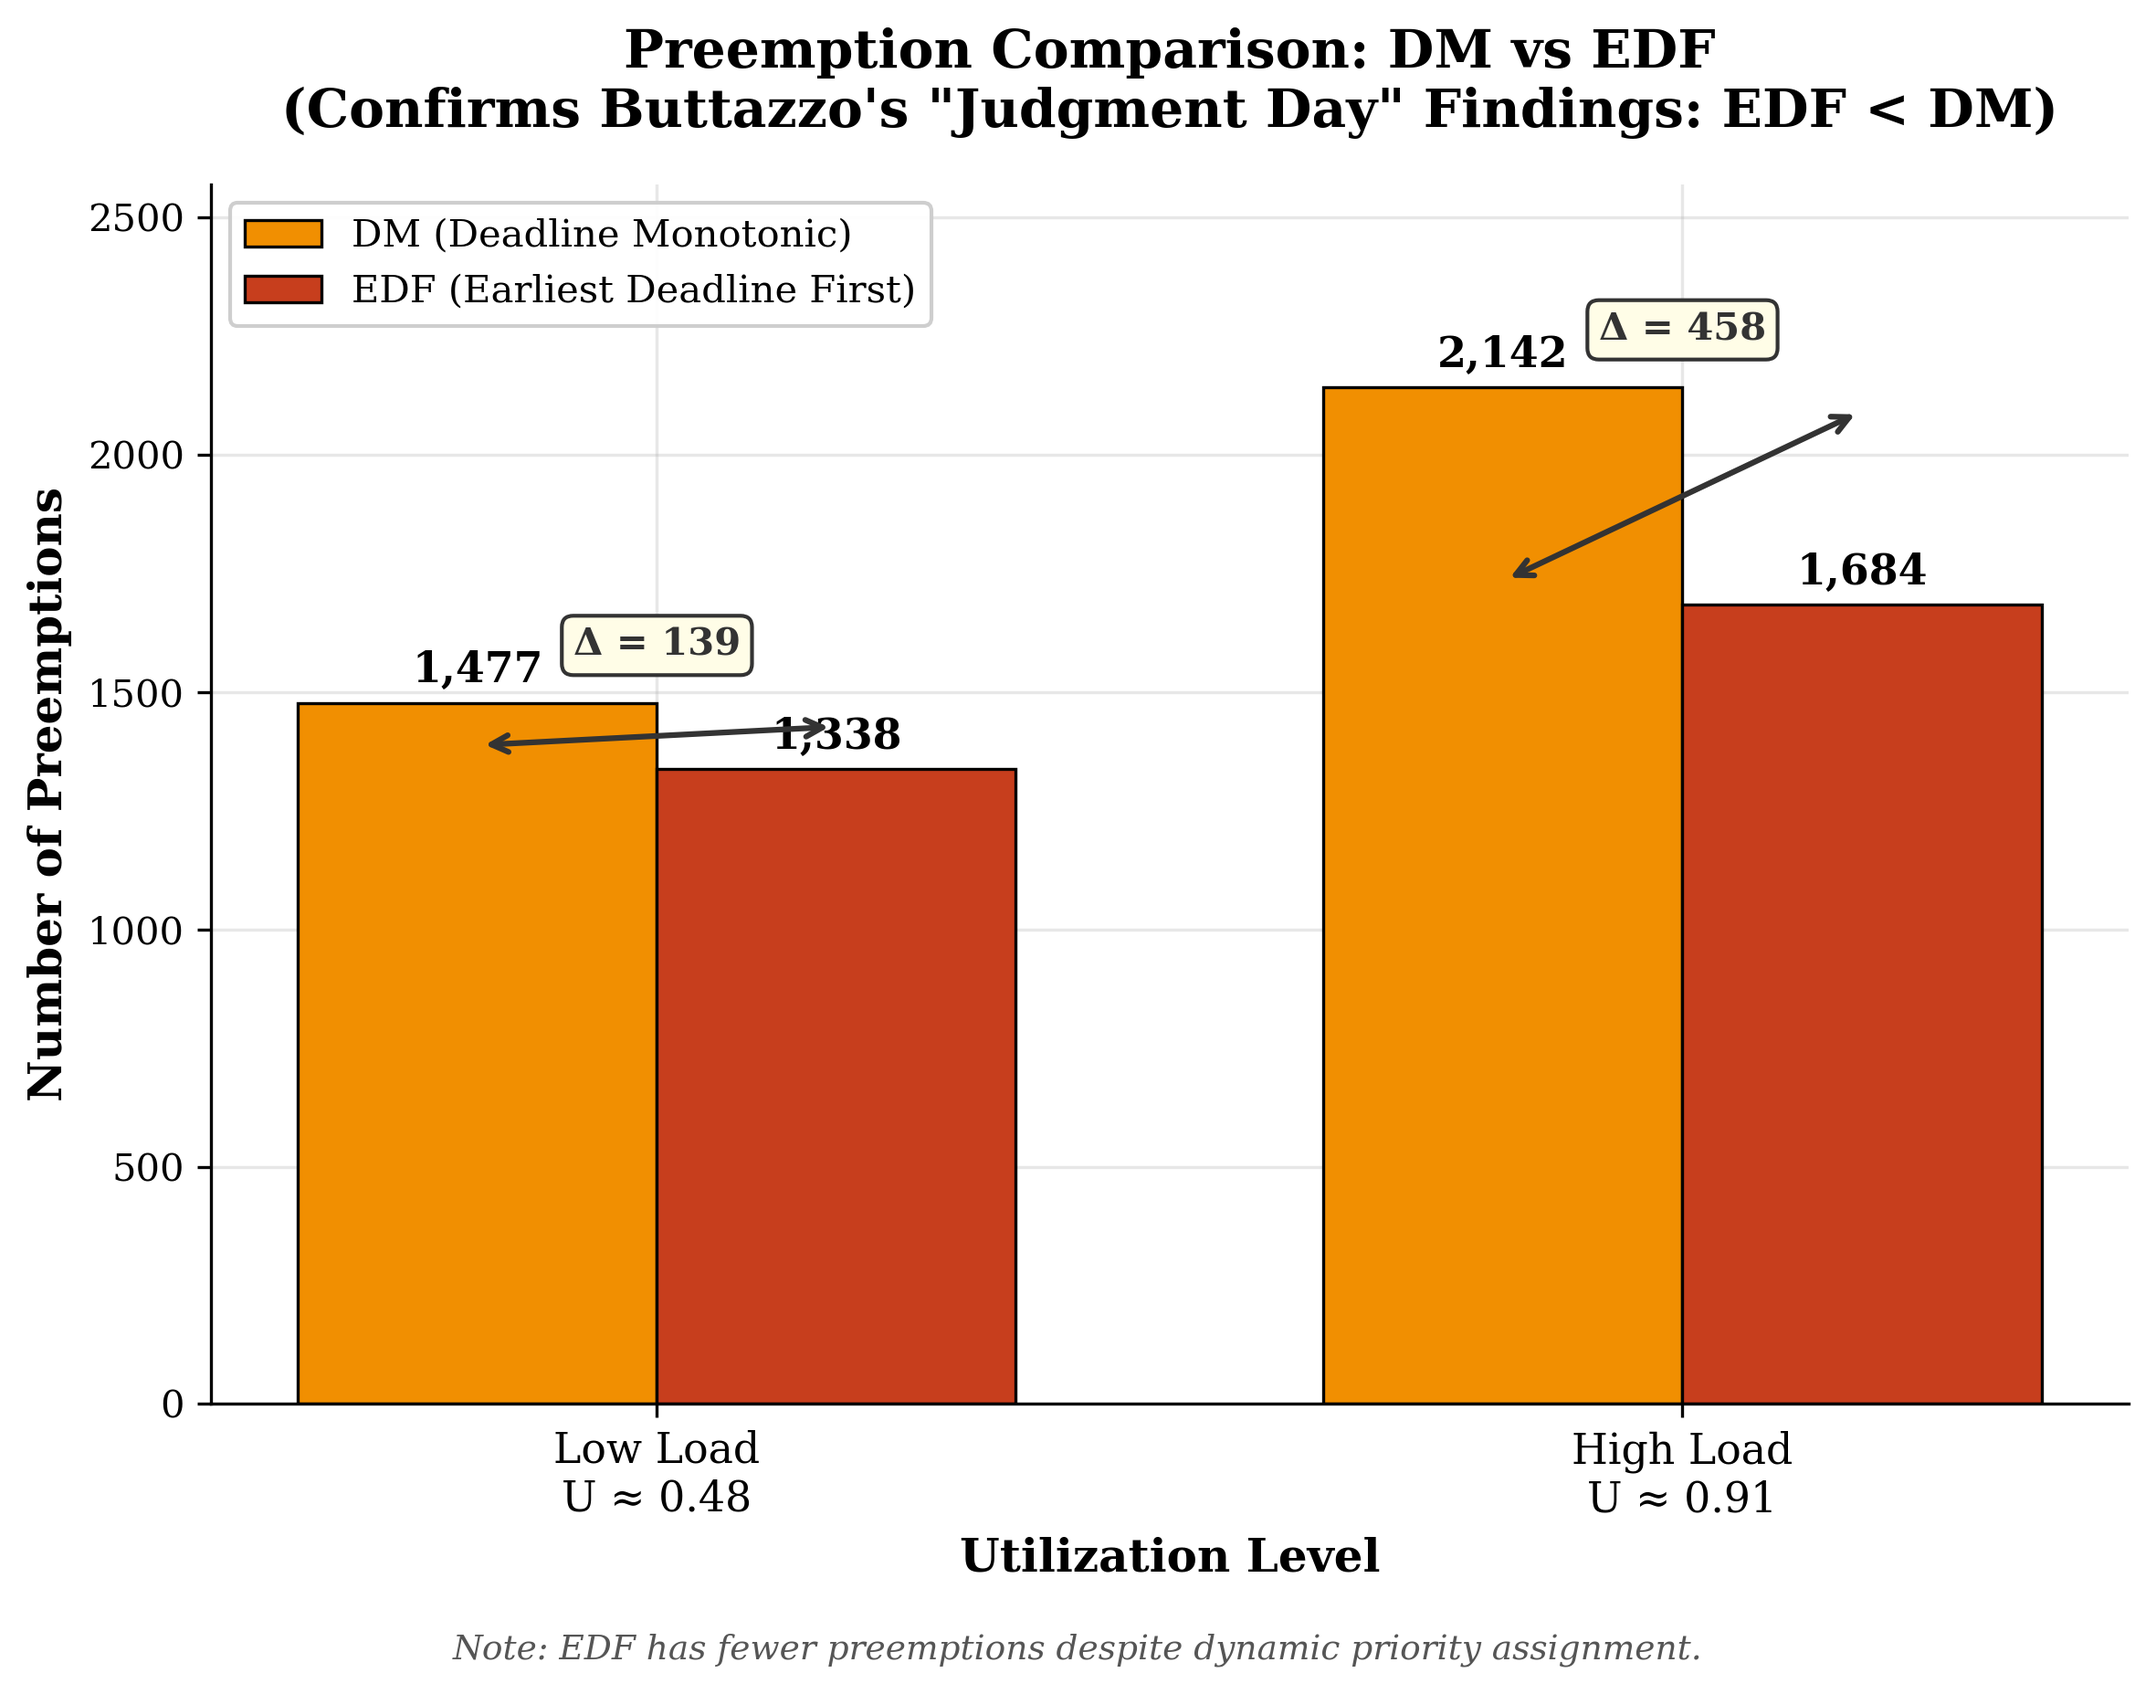
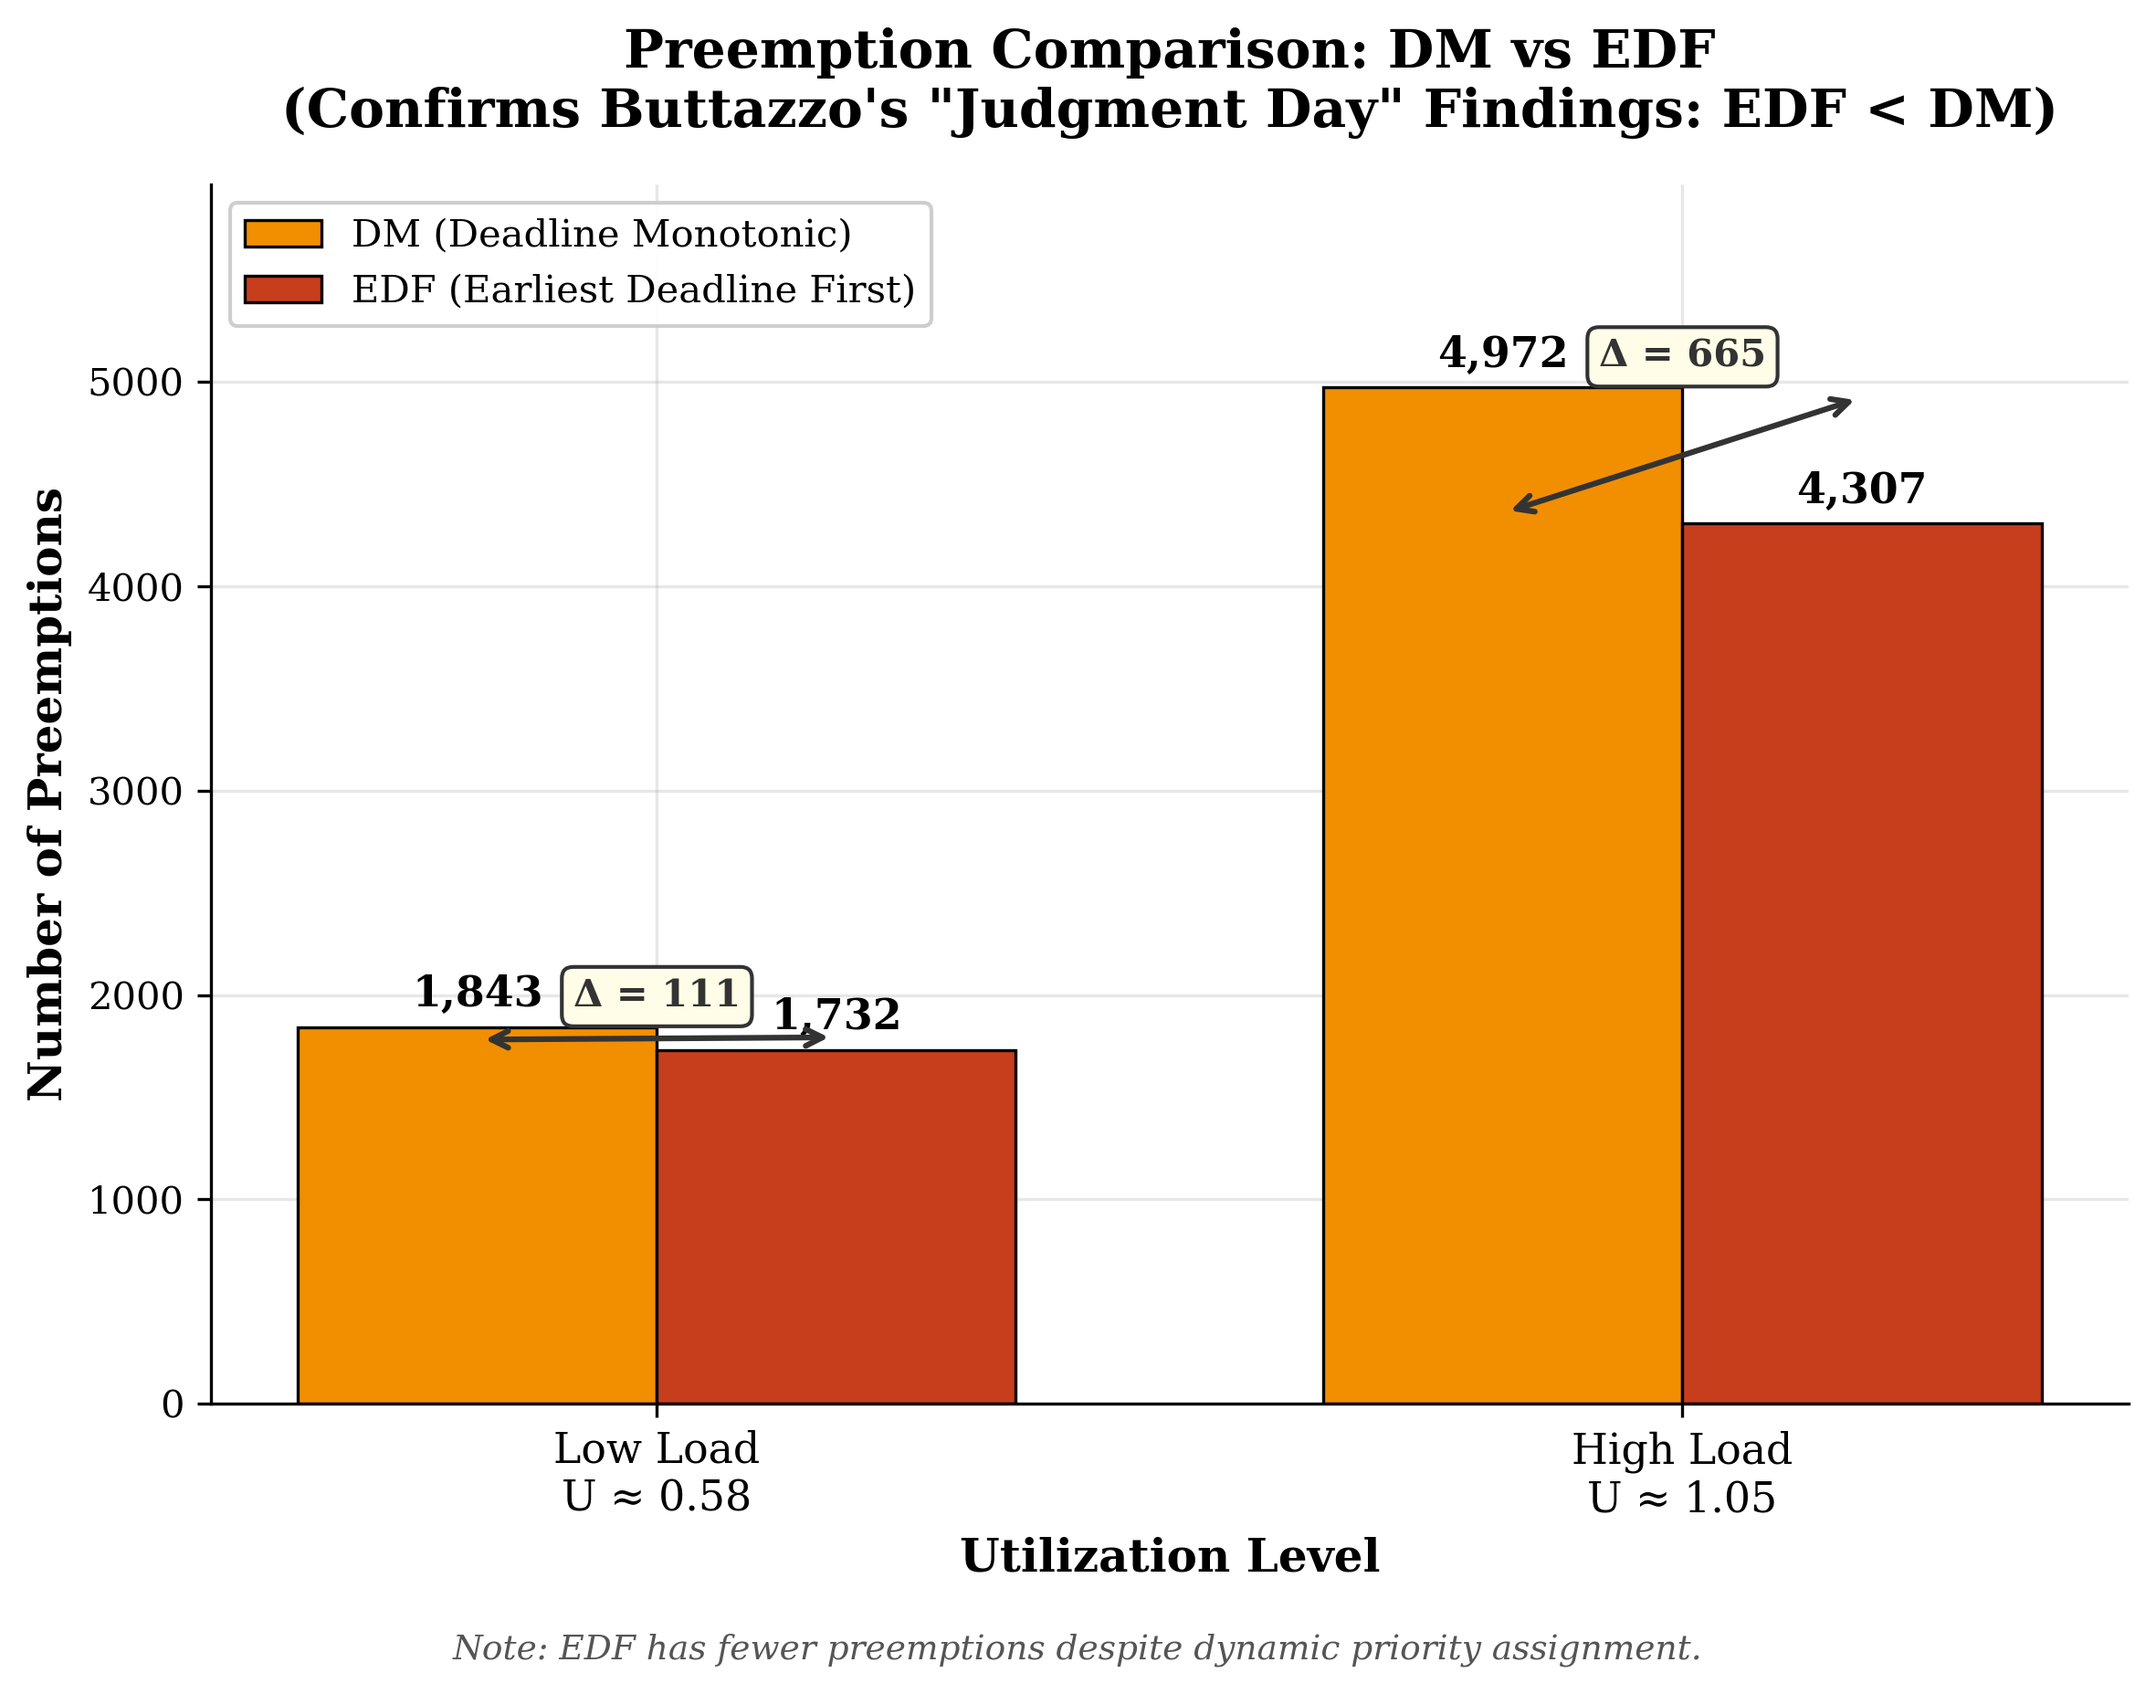
Update visual part

diff --git a/src/visualizer.py b/src/visualizer.py
@@ -360,22 +360,137 @@ def plot_preemption_comparison(
 
 
 # ============================================================================
+# Chart 3: Gantt Chart
+# ============================================================================
+
+def plot_gantt_chart(
+    result: SimulationResult,
+    tasks: List[Task],
+    algorithm_name: str,
+    duration: Optional[int] = None,
+    output_path: Optional[str] = None,
+    show: bool = True
+) -> plt.Figure:
+    """
+    Generate a Gantt chart showing task execution over time.
+    
+    Shows:
+    - Horizontal bars for each task's execution periods
+    - Color-coded by task
+    - Consolidated execution blocks for performance
+    
+    Args:
+        result: SimulationResult from DiscreteTimeSimulator
+        tasks: List of Task objects
+        algorithm_name: Name of the scheduling algorithm (for title)
+        duration: Duration to display (defaults to simulation duration)
+        output_path: Path to save PNG file (optional)
+        show: Whether to display the plot
+        
+    Returns:
+        matplotlib Figure object
+    """
+    if duration is None:
+        duration = result.duration
+    
+    # Limit displayed duration for readability
+    max_display = min(duration, 600)
+    
+    fig, ax = plt.subplots(figsize=(14, max(6, len(tasks) * 0.6)))
+    
+    # Color map - use tab10 for up to 10 tasks, tab20 for more
+    n_tasks = len(tasks)
+    if n_tasks <= 10:
+        colors = plt.colormaps.get_cmap('tab10')
+    else:
+        colors = plt.colormaps.get_cmap('tab20')
+    
+    task_colors = {t.id: colors(i) for i, t in enumerate(tasks)}
+    
+    # Filter and merge consecutive execution blocks
+    history = [(t, tid) for t, tid in result.history if t < max_display]
+    
+    merged_blocks = []
+    if history:
+        current_start = history[0][0]
+        current_task = history[0][1]
+        
+        for t, task_id in history:
+            if task_id != current_task:
+                if current_task is not None:
+                    merged_blocks.append((current_start, t - current_start, current_task))
+                current_task = task_id
+                current_start = t
+        
+        # Add final block
+        if current_task is not None:
+            end_time = min(history[-1][0] + 1, max_display)
+            merged_blocks.append((current_start, end_time - current_start, current_task))
+    
+    # Plot consolidated blocks
+    for start, length, task_id in merged_blocks:
+        ax.broken_barh(
+            [(start, length)], 
+            (task_id * 10, 9), 
+            facecolors=task_colors.get(task_id, 'gray')
+        )
+    
+    # Labels and formatting
+    task_ids = sorted([t.id for t in tasks])
+    ax.set_ylim(-5, max(task_ids) * 10 + 15)
+    ax.set_xlim(0, max_display)
+    ax.set_xlabel('Time', fontweight='bold')
+    ax.set_ylabel('Task ID', fontweight='bold')
+    ax.set_yticks([tid * 10 + 4.5 for tid in task_ids])
+    ax.set_yticklabels([f'$\\tau_{{{tid}}}$' for tid in task_ids])
+    ax.set_title(f'Gantt Chart - {algorithm_name} Scheduling (Duration: {max_display})', 
+                 fontweight='bold', pad=15)
+    ax.grid(True, axis='x', alpha=0.3)
+    
+    # Add legend
+    legend_patches = [
+        mpatches.Patch(color=task_colors[t.id], label=f'$\\tau_{{{t.id}}}$ (T={t.period}, D={t.deadline})')
+        for t in tasks
+    ]
+    ax.legend(handles=legend_patches, loc='upper right', fontsize=8, ncol=2)
+    
+    ax.spines['top'].set_visible(False)
+    ax.spines['right'].set_visible(False)
+    
+    plt.tight_layout()
+    
+    # Save if path provided
+    if output_path:
+        fig.savefig(output_path, dpi=300, bbox_inches='tight', facecolor='white')
+        print(f"  ✓ Saved: {output_path}")
+    
+    if show:
+        plt.show()
+    
+    return fig
+
+
+# ============================================================================
 # Combined Visualization Function
 # ============================================================================
+
 
 def generate_all_charts(
     output_dir: str = "../resultplots",
     seed: int = 42,
-    n_tasks: int = 5,
+    n_tasks: int = 12,
     sim_duration: int = 50000,
     show: bool = True
-) -> Tuple[plt.Figure, plt.Figure]:
+) -> Tuple[plt.Figure, plt.Figure, plt.Figure, plt.Figure, plt.Figure]:
     """
     Generate all visualization charts from Step 4.
     
     Runs the complete analysis and simulation pipeline, then generates:
     1. WCRT Comparison chart (Theory vs Simulation for High U, DM)
     2. Preemption Comparison chart (DM vs EDF across utilization levels)
+    3. Gantt Chart for RM scheduling
+    4. Gantt Chart for DM scheduling
+    5. Gantt Chart for EDF scheduling
     
     Args:
         output_dir: Directory to save PNG files
@@ -385,7 +500,7 @@ def generate_all_charts(
         show: Whether to display plots
         
     Returns:
-        Tuple of (wcrt_fig, preemption_fig)
+        Tuple of (wcrt_fig, preemption_fig, gantt_rm_fig, gantt_dm_fig, gantt_edf_fig)
     """
     print("=" * 80)
     print(" DRTS Mini-Project Step 4: Visualization")
@@ -454,14 +569,20 @@ def generate_all_charts(
     sim_edf_high = DiscreteTimeSimulator(
         high_u_tasks, SchedulingAlgorithm.EDF, seed=seed, max_duration=sim_duration
     )
+    sim_rm_high = DiscreteTimeSimulator(
+        high_u_tasks, SchedulingAlgorithm.RM, seed=seed, max_duration=sim_duration
+    )
     
     result_dm_high = sim_dm_high.run()
     result_edf_high = sim_edf_high.run()
+    result_rm_high = sim_rm_high.run()
     
     print(f"  High U DM:  Preemptions={result_dm_high.total_preemptions}, "
           f"Misses={result_dm_high.total_jobs_missed}")
     print(f"  High U EDF: Preemptions={result_edf_high.total_preemptions}, "
           f"Misses={result_edf_high.total_jobs_missed}")
+    print(f"  High U RM:  Preemptions={result_rm_high.total_preemptions}, "
+          f"Misses={result_rm_high.total_jobs_missed}")
     
     # ========================================================================
     # Step 4: Generate Charts
@@ -519,6 +640,38 @@ def generate_all_charts(
         show=False
     )
     
+    # ------------------------------------------------------------------------
+    # Chart 3-5: Gantt Charts (RM, DM and EDF for High U)
+    # ------------------------------------------------------------------------
+    print("\n  [Chart 3-5] Gantt Charts: RM, DM and EDF Scheduling")
+    
+    gantt_rm_fig = plot_gantt_chart(
+        result_rm_high,
+        high_u_tasks,
+        "RM",
+        duration=600,  # Show first 600 ticks for readability
+        output_path=os.path.join(output_dir, "gantt_RM.png"),
+        show=False
+    )
+    
+    gantt_dm_fig = plot_gantt_chart(
+        result_dm_high,
+        high_u_tasks,
+        "DM",
+        duration=600,
+        output_path=os.path.join(output_dir, "gantt_DM.png"),
+        show=False
+    )
+    
+    gantt_edf_fig = plot_gantt_chart(
+        result_edf_high,
+        high_u_tasks,
+        "EDF",
+        duration=600,
+        output_path=os.path.join(output_dir, "gantt_EDF.png"),
+        show=False
+    )
+    
     # ========================================================================
     # Summary
     # ========================================================================
@@ -528,6 +681,9 @@ def generate_all_charts(
     print(f"\n  Charts saved to: {os.path.abspath(output_dir)}/")
     print(f"    • wcrt_comparison.png")
     print(f"    • preemption_comparison.png")
+    print(f"    • gantt_RM.png")
+    print(f"    • gantt_DM.png")
+    print(f"    • gantt_EDF.png")
     print("\n  Key Findings:")
     print(f"    • DM failed for τ_0 in high U (WCRT={dm_high.task_results[0].wcrt} > D={high_u_tasks[0].deadline})")
     print(f"    • EDF successfully scheduled all tasks")
@@ -539,7 +695,7 @@ def generate_all_charts(
     if show:
         plt.show()
     
-    return wcrt_fig, preemption_fig
+    return wcrt_fig, preemption_fig, gantt_rm_fig, gantt_dm_fig, gantt_edf_fig
 
 
 # ============================================================================
@@ -559,7 +715,7 @@ if __name__ == "__main__":
     generate_all_charts(
         output_dir="../resultplots",
         seed=42,
-        n_tasks=5,
+        n_tasks=12,
         sim_duration=50000,
         show=True
     )
